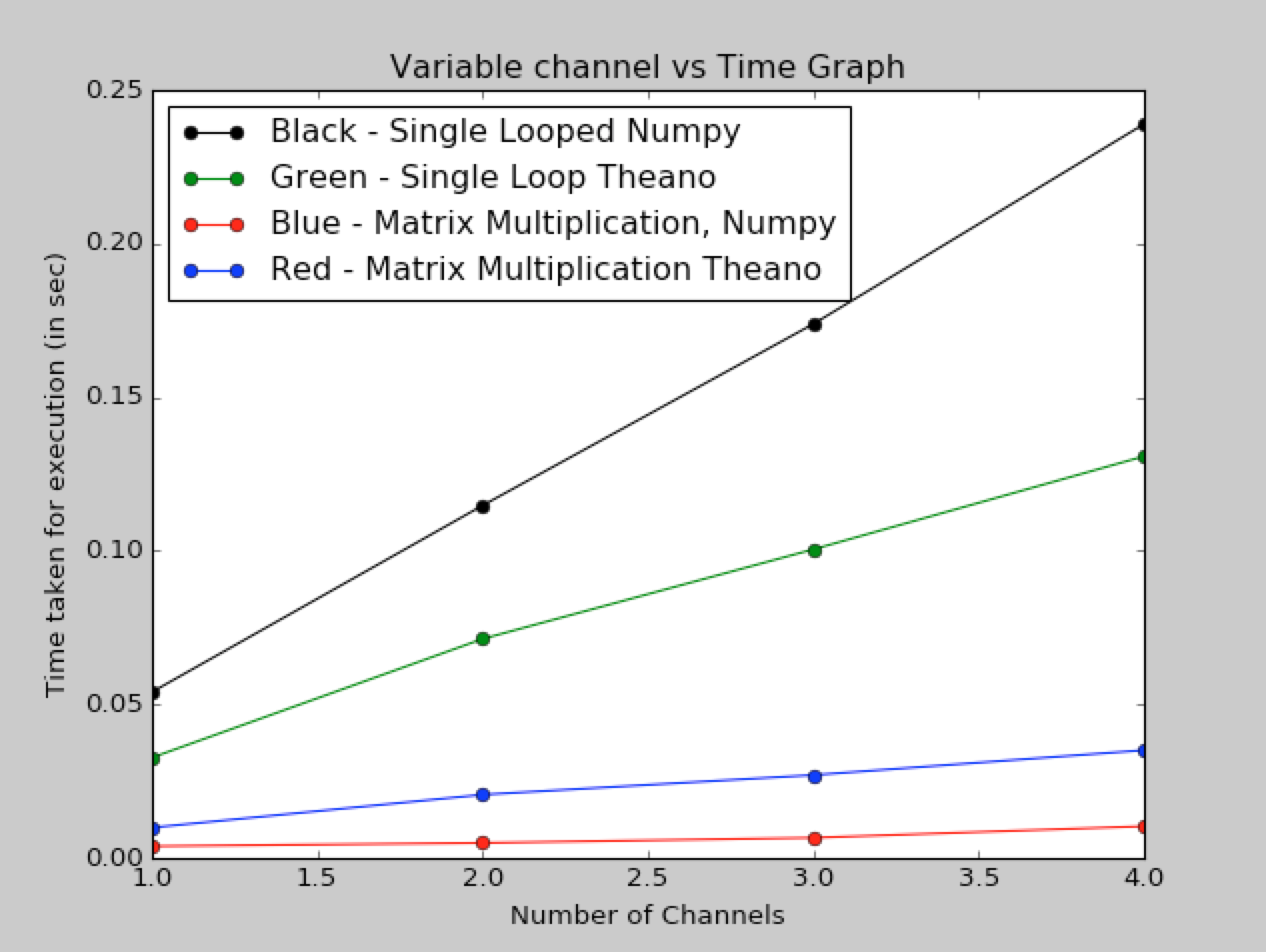
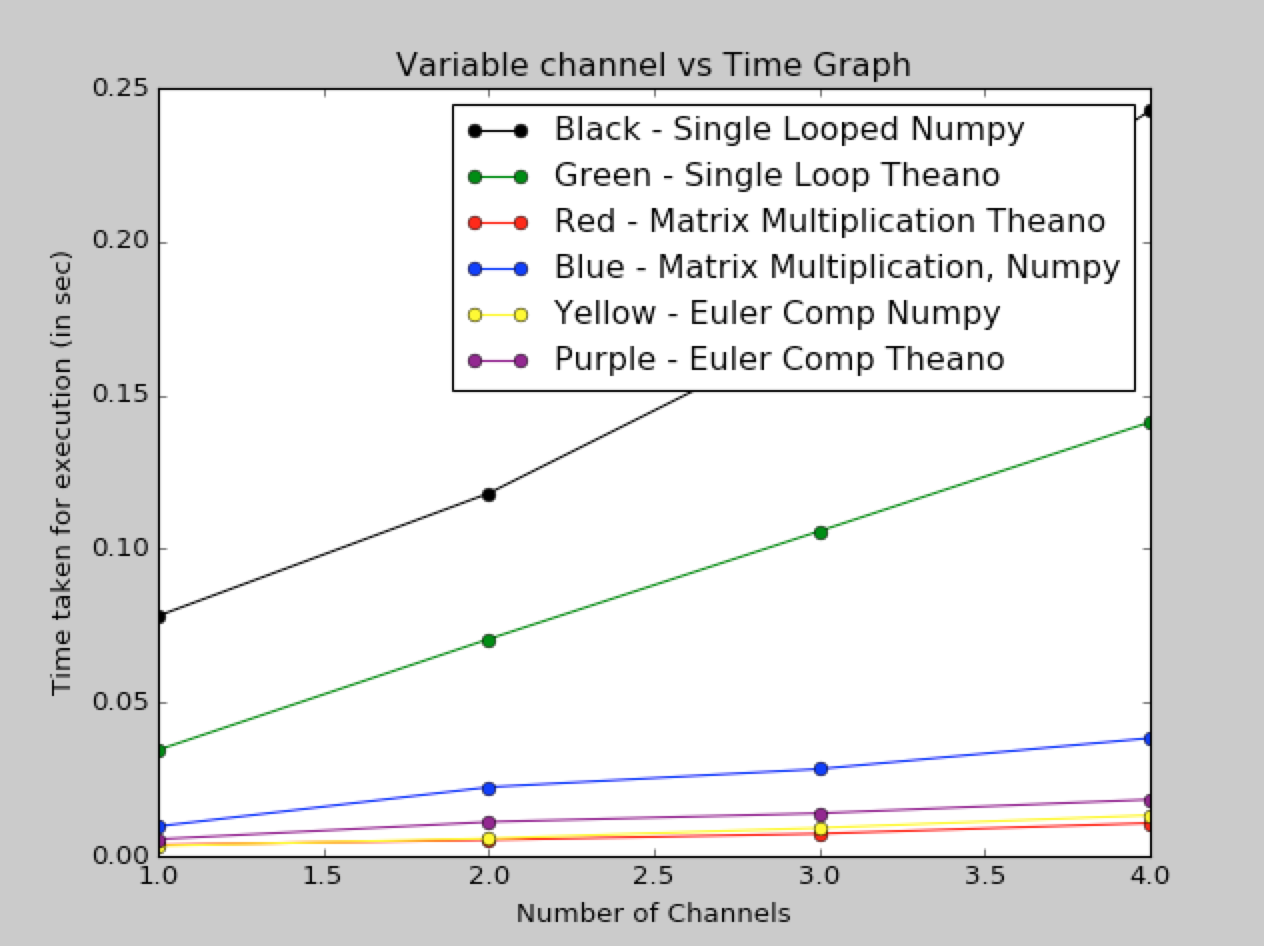
Added Euler computation implementation in theano and numpy

diff --git a/compute_stfts.py b/compute_stfts.py
@@ -76,6 +76,49 @@ def pre_compute_kernels(sample_freq, frequency_range, default_width, output="ker
     return kernel, max(comp_width)
 
 
+def pre_compute_algebraic_kernel(sample_freq, frequency_range, default_width):
+    computed_window = []
+    comp_width = []
+    comp_width.append(int(default_width))
+    # Here, the width and window array is constructed
+    # From the maximum width that we return, we can compute the 
+    # i_exp variable outside the for loop, which makes a the O(N**2) algorithm, O(N)
+
+    for f in frequency_range:
+        current_width = int(1/(.03*f)*sample_freq)
+        current_window = blackman(current_width)
+        computed_window.append(blackman(current_width))
+        comp_width.append(int(current_width))
+
+
+    max_width = max(comp_width)
+    kernel = np.empty(int(max_width))
+    sine_terms = np.empty(int(max_width))
+    cosine_terms = np.empty(int(max_width))
+    window_list = np.empty(int(max_width))
+
+    for f_count, freq in enumerate(frequency_range):
+        if max_width > len(computed_window[f_count]):
+            if (max_width - len(computed_window[f_count])) %2 == 0 :
+                windows = np.pad(computed_window[f_count], (max_width - len(computed_window[f_count])) / 2, 'constant')
+
+            else:
+                windows = np.append(np.pad(computed_window[f_count], (max_width - len(computed_window[f_count]) - 1) / 2, 'constant'), 0)
+
+        else:
+            windows = computed_window[f_count]
+        window_list = np.vstack((window_list, windows))
+        i_exp = np.arange(0, len(windows))
+        sine_terms = np.vstack((sine_terms, np.sin(2 * np.pi * freq * i_exp)))
+        cosine_terms = np.vstack((cosine_terms, np.cos(2 * np.pi * freq * i_exp)))
+    cosine_kernel = window_list * cosine_terms 
+    sin_kernel = window_list * sine_terms
+    cosine_kernel = np.delete(cosine_kernel, (0), axis=0)
+    sin_kernel = np.delete(sin_kernel, (0), axis=0)
+    return cosine_kernel, sin_kernel, max_width
+
+
+
 def threeloop_cqt(signal, max_width, time_range, frequency_range, kernel_details=None, channels=1):
     '''
     Computes the CQT of a signal using three loops.
@@ -218,7 +261,6 @@ def matrix_theano(signal, time_range, frequency_range, kernel_details, channels=
     signal_matrix = T.fmatrix("Signal Matrix")
     kernel_matrix = T.fmatrix("Kernel Matrix")
     h = int(max_width/2)
-    import pdb;pdb.set_trace()
     n = time_range[-1] + h
     col_index = np.arange(0, n, h)
     row_index = np.arange(max_width)
@@ -234,6 +276,47 @@ def matrix_theano(signal, time_range, frequency_range, kernel_details, channels=
     print("User time for matrix theano: " + str(post.ru_utime - prior.ru_utime))
     return output, user_time
 
+def euler_computation(signal, time_range, frequency_range, kernel_details):
+    cosine_kern, sine_kern , max_width = kernel_details
+    output = np.zeros((len(time_range), len(frequency_range)))
+    h = int(max_width/2)
+    n = time_range[-1] + h
+    col_index = np.arange(0, n, h)
+    row_index = np.arange(max_width)
+    index = col_index[:,np.newaxis] + row_index[np.newaxis, :]
+    prior = resource.getrusage(resource.RUSAGE_SELF)
+    sliced_signal = signal[index]
+    cosine_comp = sliced_signal.dot(cosine_kern.transpose())
+    sine_comp = sliced_signal.dot(sine_kern.transpose())
+    output = cosine_comp + 1j * sine_comp
+    post = resource.getrusage(resource.RUSAGE_SELF)
+    user_time = post.ru_utime - prior.ru_utime
+    print("System time for Euler computation : " + str(post.ru_stime - prior.ru_stime))
+    print("User time for Euler computation : " + str(post.ru_utime - prior.ru_utime))
+    return output, user_time
+
+def euler_computation_theano(signal, time_range, frequency_range, kernel_details):
+    cosine_kern, sine_kern , max_width = kernel_details
+    output = np.zeros((len(time_range), len(frequency_range)))
+    h = int(max_width/2)
+    n = time_range[-1] + h
+    col_index = np.arange(0, n, h)
+    row_index = np.arange(max_width)
+    index = col_index[:,np.newaxis] + row_index[np.newaxis, :]
+    signal_matrix = T.fmatrix("Signal Matrix")
+    cosine_matrix = T.fmatrix("Cosine Matrix")
+    sine_matrix = T.fmatrix("Sine Matrix")
+    cqt_compute = T.dot(signal_matrix, cosine_matrix.T) + 1j * T.dot(signal_matrix, sine_matrix.T)
+    func = theano.function([signal_matrix, cosine_matrix, sine_matrix], cqt_compute, allow_input_downcast=True)
+    prior = resource.getrusage(resource.RUSAGE_SELF)
+    sliced_signal = signal[index]
+    output = func(sliced_signal, cosine_kern, sine_kern)
+    post = resource.getrusage(resource.RUSAGE_SELF)
+    user_time = post.ru_utime - prior.ru_utime
+    print("System time for Theano's Euler computation : " + str(post.ru_stime - prior.ru_stime))
+    print("User time for Theano's Euler computation : " + str(post.ru_utime - prior.ru_utime))
+    return output, user_time
+
 def generate_signal(signal_base, mul_factor=1):
     pure_signal = np.cos(2 * math.pi * 440./44100. * np.arange(signal_base * mul_factor))
     noise = np.random.randn(signal_base * mul_factor)
@@ -244,9 +327,10 @@ def generate_signal(signal_base, mul_factor=1):
 def plot_graph(cqt_values, title, mode, labels, axes_label):
     fig, ax = plt.subplots()
     plt.title(title)
-    colour_list = ['black', 'green', 'red', 'blue']
+    colour_list = ['black', 'green', 'red', 'blue', 'yellow', 'purple']
     colour_labelmap = ["Black - Single Looped Numpy", "Green - Single Loop Theano",
-                       "Red - Matrix Multiplication Theano", "Blue - Matrix Multiplication, Numpy"]
+                       "Red - Matrix Multiplication Theano", "Blue - Matrix Multiplication, Numpy",
+                       "Yellow - Euler Comp Numpy", "Purple - Euler Comp Theano"]
     plot_array = []
     for index, cv in enumerate(cqt_values):
         temp_plots = ax.plot(labels, cv, colour_list[index], marker='o')
@@ -262,21 +346,23 @@ def usertime_graph(signal_base, mul_factor, final_signal, time_range, frequency_
     mul_count = 0
     three_loop, two_kernel, two_w_kernel = [], [], []
     single_cqt, theano_vectorized, theano_matrix = [], [], []
-    direct_cqt = []
+    direct_cqt, euler_cqt, euler_theano = [], [], []
     signal_length = []
     while  True:
         if mul_count >= 8:
             break
         final_signal = generate_signal(signal_base, mul_factor)
         time_range = np.arange(0, len(final_signal) - int(max_width), int(max_width/2))
-        single_cqt.append(cqt_single(final_signal, time_range, frequency_range, kernel_details)[1])
-        theano_vectorized.append(vectorized_theano(final_signal, time_range, frequency_range, kernel_details)[1])
-        theano_matrix.append(matrix_theano(final_signal, time_range, frequency_range, kernel_details)[1])
-        direct_cqt.append(matrix_cqt(final_signal, time_range, frequency_range, kernel_details)[1])
+        single_cqt.append(cqt_single(final_signal, time_range, frequency_range, kernel_details[0])[1])
+        theano_vectorized.append(vectorized_theano(final_signal, time_range, frequency_range, kernel_details[0])[1])
+        theano_matrix.append(matrix_theano(final_signal, time_range, frequency_range, kernel_details[0])[1])
+        direct_cqt.append(matrix_cqt(final_signal, time_range, frequency_range, kernel_details[0])[1])
+        euler_cqt.append(euler_computation(final_signal, time_range, frequency_range, kernel_details[1])[1])
+        euler_theano.append(euler_computation_theano(final_signal, time_range, frequency_range, kernel_details[1])[1])
         signal_length.append(signal_base)
         signal_base = signal_base * mul_factor
         mul_count += 1
-    cqt_values = [single_cqt, theano_vectorized, theano_matrix, direct_cqt]
+    cqt_values = [single_cqt, theano_vectorized, theano_matrix, direct_cqt, euler_cqt, euler_theano]
     plt_title = "User time vs Signal Length Graph"
     axes_label = ["Signal Length", "Time taken for execution (in sec)"]
     plot_graph(cqt_values, plt_title, "user-time", signal_length, axes_label)
@@ -286,22 +372,25 @@ def usertime_graph(signal_base, mul_factor, final_signal, time_range, frequency_
 def channel_graph(final_signal, channels, time_range, sample_freq, max_width):
     three_loop, two_kernel, two_w_kernel = [], [], []
     single_cqt, theano_vectorized, theano_matrix = [], [], []
-    direct_cqt = []
-    cqt_values = []
+    direct_cqt, cqt_values, euler_cqt, euler_theano = [], [], [], []
     for i in channels:
         # three_loop.append(threeloop_cqt(final_signal, 44100, i)[1])
         # two_kernel.append(cqt_two_with_kernel(final_signal, 44100, i)[1])
         # two_w_kernel.append(cqt_two_without_kernel(final_signal, 44100, i)[1])
         frequency_range = 100. * 2. ** (1./(12. * i) * np.arange(0, 50, (1.0/i)))
         kernel_details = pre_compute_kernels(sample_freq, frequency_range, max_width)
+        euler_kernel_details = pre_compute_algebraic_kernel(sample_freq, frequency_range, max_width)
         single_cqt.append(cqt_single(final_signal, time_range, frequency_range, kernel_details, channels=i)[1])
         theano_vectorized.append(vectorized_theano(final_signal, time_range, frequency_range, kernel_details, channels=i)[1])
         theano_matrix.append(matrix_theano(final_signal, time_range, frequency_range, kernel_details, channels=i)[1])
         direct_cqt.append(matrix_cqt(final_signal, time_range, frequency_range, kernel_details, channels=i)[1])
-    cqt_values = [single_cqt, theano_vectorized, theano_matrix, direct_cqt]
+        euler_cqt.append(euler_computation(final_signal, time_range, frequency_range, euler_kernel_details)[1])
+        euler_theano.append(euler_computation_theano(final_signal, time_range, frequency_range, euler_kernel_details)[1])
+    cqt_values = [single_cqt, theano_vectorized, theano_matrix, direct_cqt, euler_cqt, euler_theano]
     plt_title = "Variable channel vs Time Graph"
     axes_label = ["Number of Channels", "Time taken for execution (in sec)"]
     plot_graph(cqt_values, plt_title, "channel", channels, axes_label)
+
 
 if __name__ == '__main__':
     signal_base = 132300
@@ -311,12 +400,16 @@ if __name__ == '__main__':
     frequency_range = 100.*2.**(1./(12.)*np.arange(0, 50))
     final_signal = generate_signal(signal_base)
     time_range = np.arange(0, len(final_signal) - int(max_width), int(max_width/2))
-    kernel_details = pre_compute_kernels(sample_freq, frequency_range, max_width)
+    default_kernel = pre_compute_kernels(sample_freq, frequency_range, max_width)
+    euler_kernel = pre_compute_algebraic_kernel(sample_freq, frequency_range, max_width)
     channels = np.arange(1, 5)
+    kernel_details = (default_kernel, euler_kernel)
     channel_graph(final_signal, channels, time_range, sample_freq, max_width)
-    #usertime_graph(signal_base, mul_factor, final_signal, time_range, frequency_range, kernel_details, max_width)
-    # matrix = matrix_cqt(final_signal, 44100)
-    # plot_matrix = matrix[0].transpose()
+    # usertime_graph(signal_base, mul_factor, final_signal, time_range, frequency_range, kernel_details, max_width)
+    matrix = euler_computation(final_signal, time_range, frequency_range, euler_kernel)
+    matrix_comp = matrix_cqt(final_signal, time_range, frequency_range, default_kernel)
+    plot_matrix = matrix[0].transpose()
+    assert np.isclose(matrix_comp[0].all(), matrix[0].all())
     '''
     pylab.imshow(np.log(np.abs(plot_matrix)), origin='lower', aspect='auto')
     pylab.xlabel('Time (sec)')
